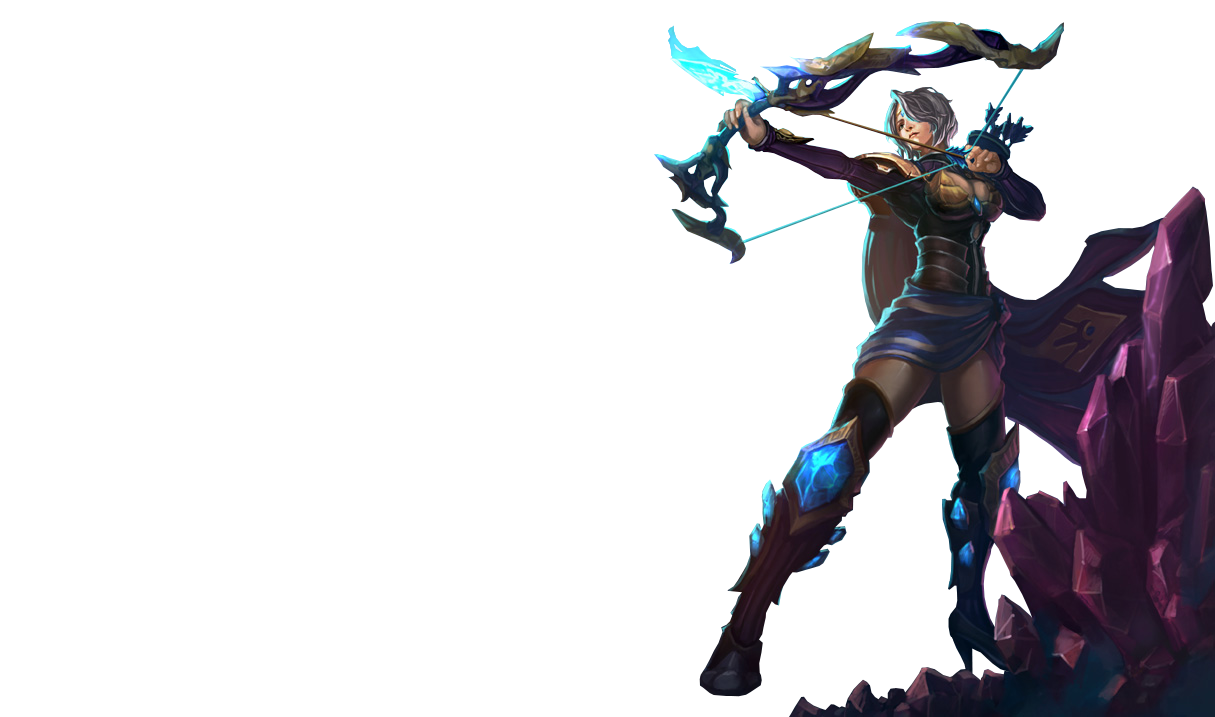
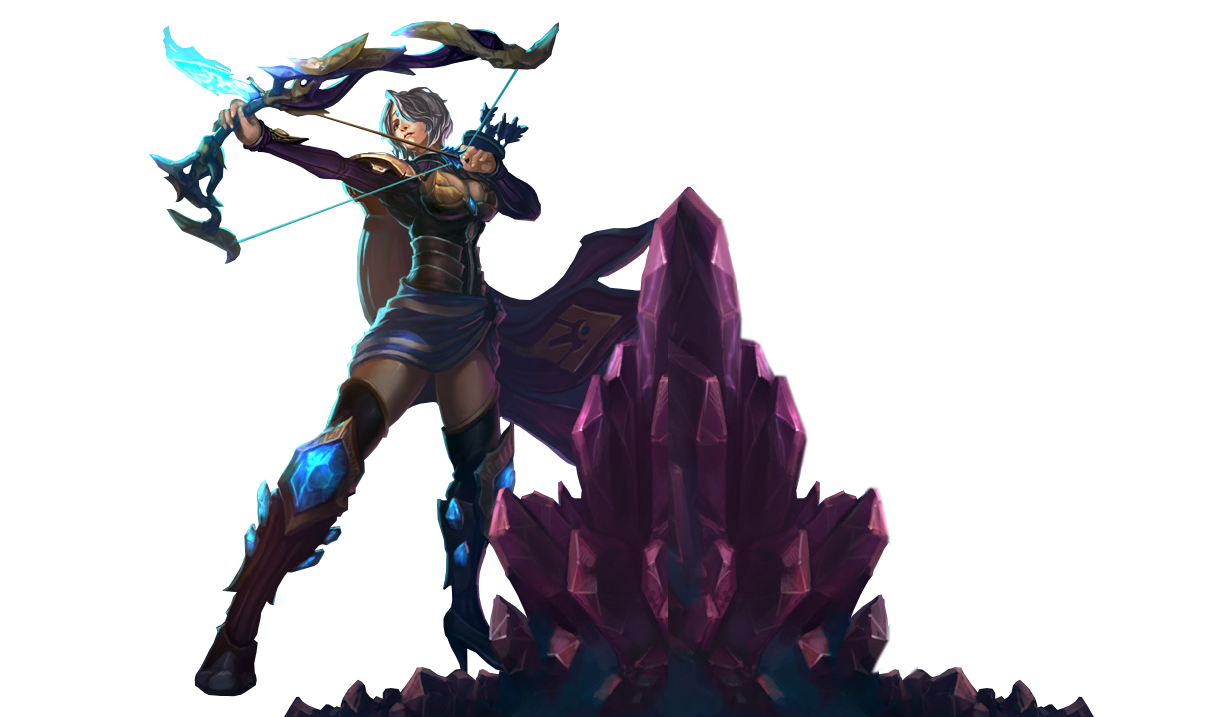
17-06-2022 1347

diff --git a/Css/Estilo.css b/Css/Estilo.css
@@ -9,6 +9,7 @@ body{
     background-color: #dcdcdc;
 
 }
+/**Fundo**/
 .Conteiner{
     position: fixed;
     left:auto;
@@ -19,5 +20,32 @@ body{
     height: 500px;
     background-color: grey;
     border-radius:20px;
-
+    background-image: url(../Imagens/335-3353900_load-screen-picture-for-league-of-legends-client.jpg);
+    background-size: cover;
+    box-shadow: 5px 5px 5px gray;
 }
+
+.Fundo{
+    float:left;
+    background-color: rgb(207, 233, 252);
+    width: 500px;
+    height: 500px;
+    border-radius:20px;
+   
+}
+
+.imagem{
+      
+    position: absolute;
+    left:auto;
+    top: auto;
+    margin-left:-20%;
+    margin-top: 16%;
+    border-radius:20px;
+    float: left;
+    width: 600px;
+    
+}
+
+/**Formulários**/
+

diff --git a/Index.html b/Index.html
@@ -7,16 +7,19 @@
 
 </head>
 <body>
+    
+
+
     <div class="Conteiner">
+       
         <div class="Fundo">
             Area 1- form 
-
+            
         </div>
-
+          
         <div>
-            Area 2 - desenho
-        </div>
-
+            <img class="imagem" src="Imagens/pngwing.com.png"/>
+        </div> 
 
     </div>
 
